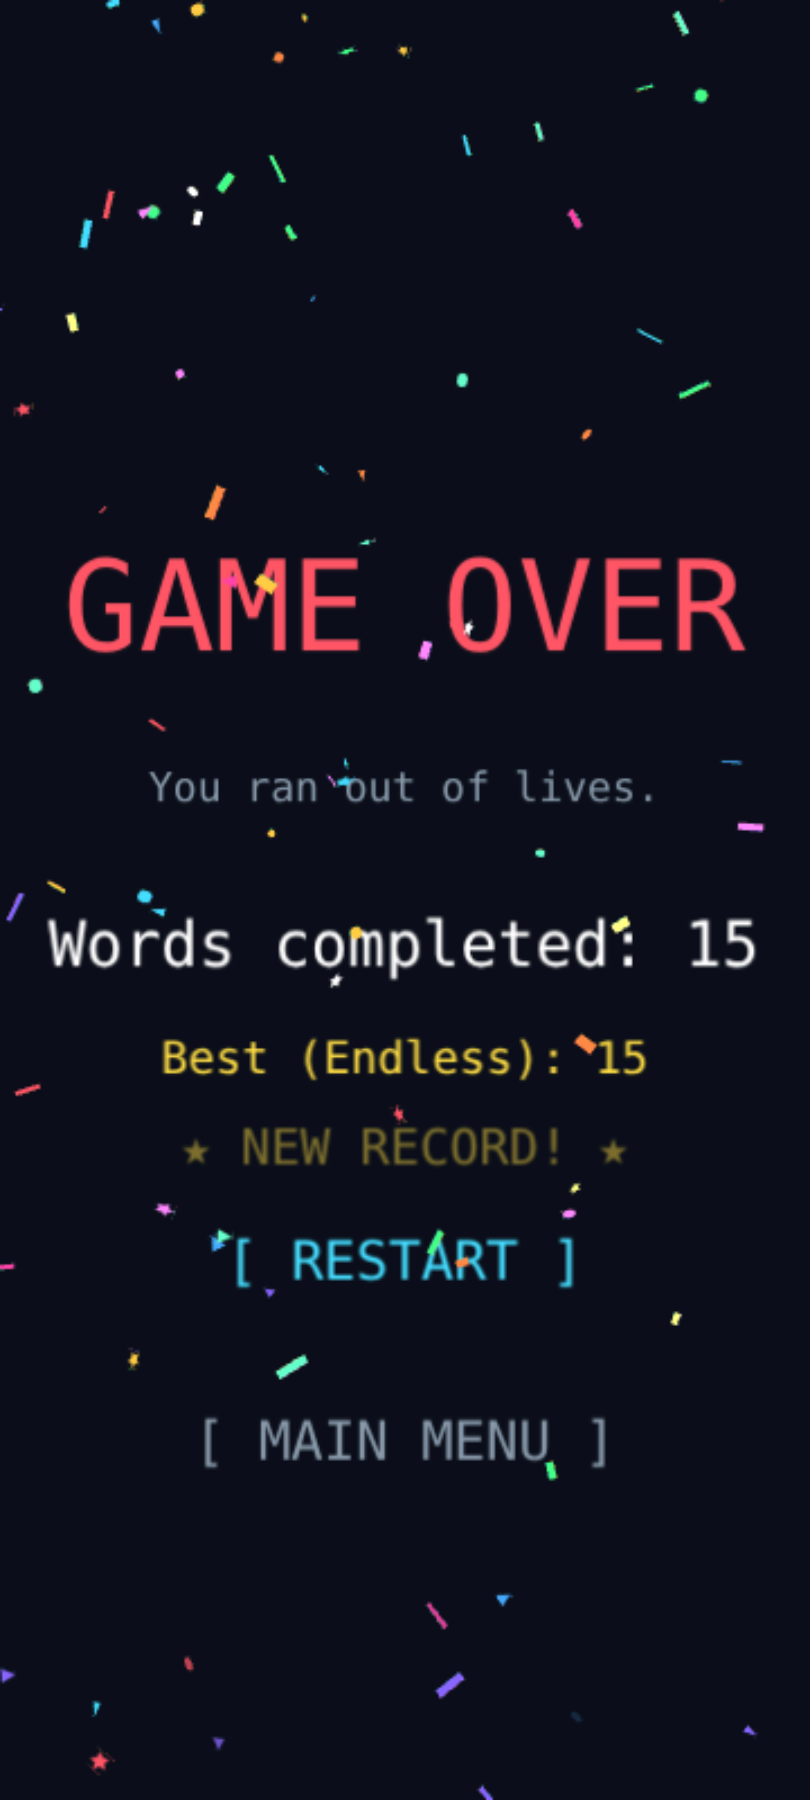
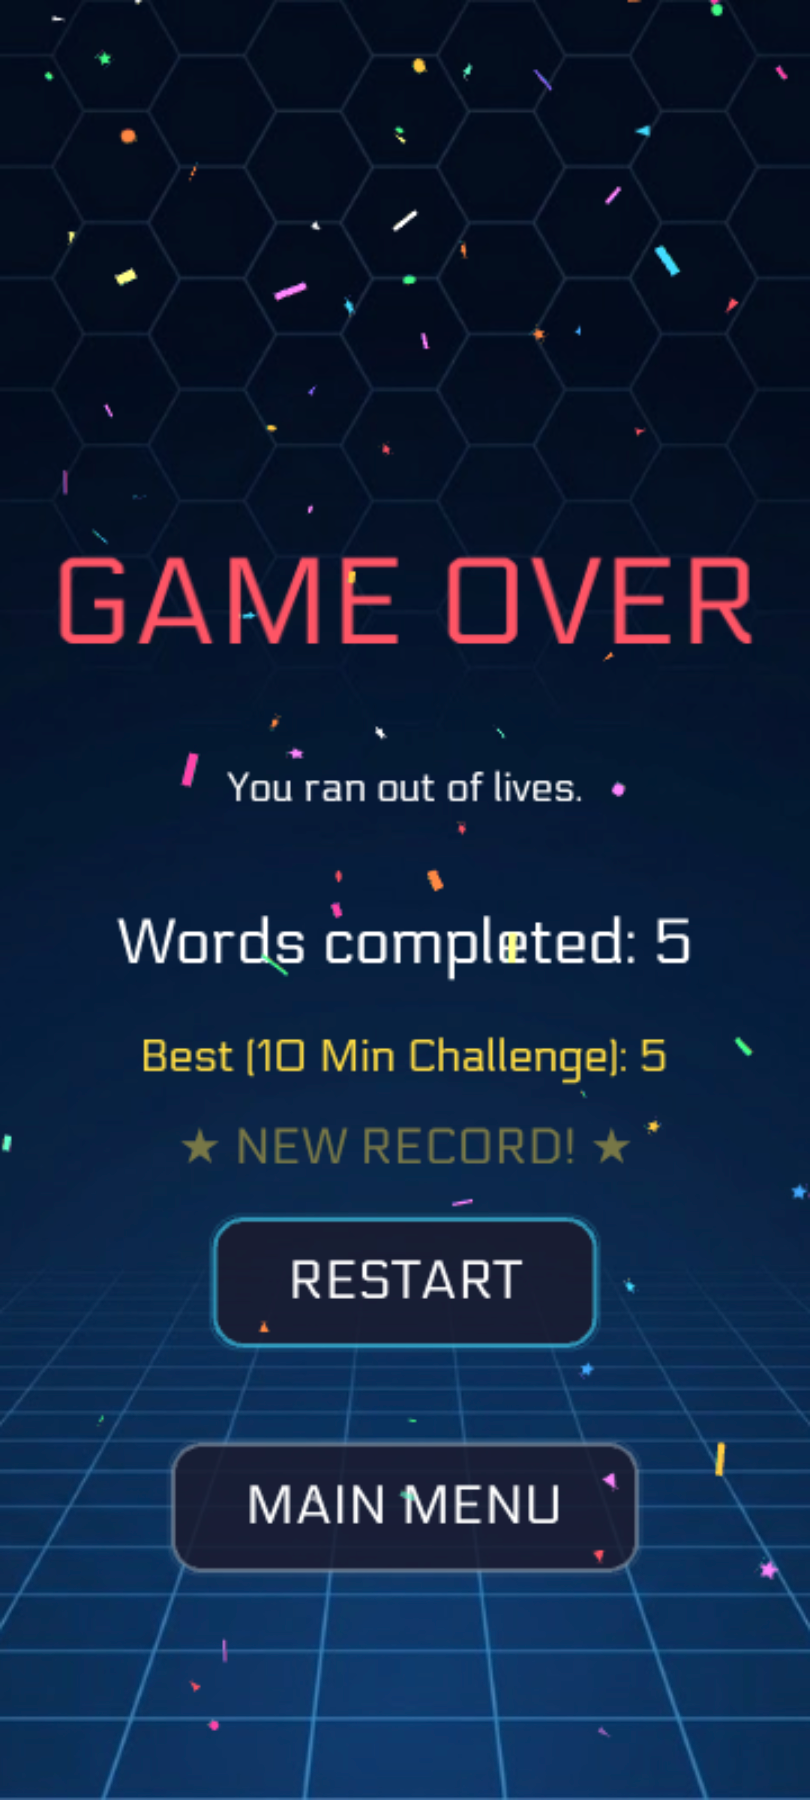
v0.2.1 patch notes + updated screenshots

diff --git a/patch-notes/PATCH_NOTES.md b/patch-notes/PATCH_NOTES.md
@@ -22,3 +22,11 @@ First version : )
 - New capture animation;
 - Better hitboxes;
 - Grayed out target word;
+
+## v0.2.1
+
+- Countdown timer in timer mode
+
+- New user interface: redesigned background, font, icons, and buttons.
+
+- Added a box around the letter and adjusted the collision area accordingly.
